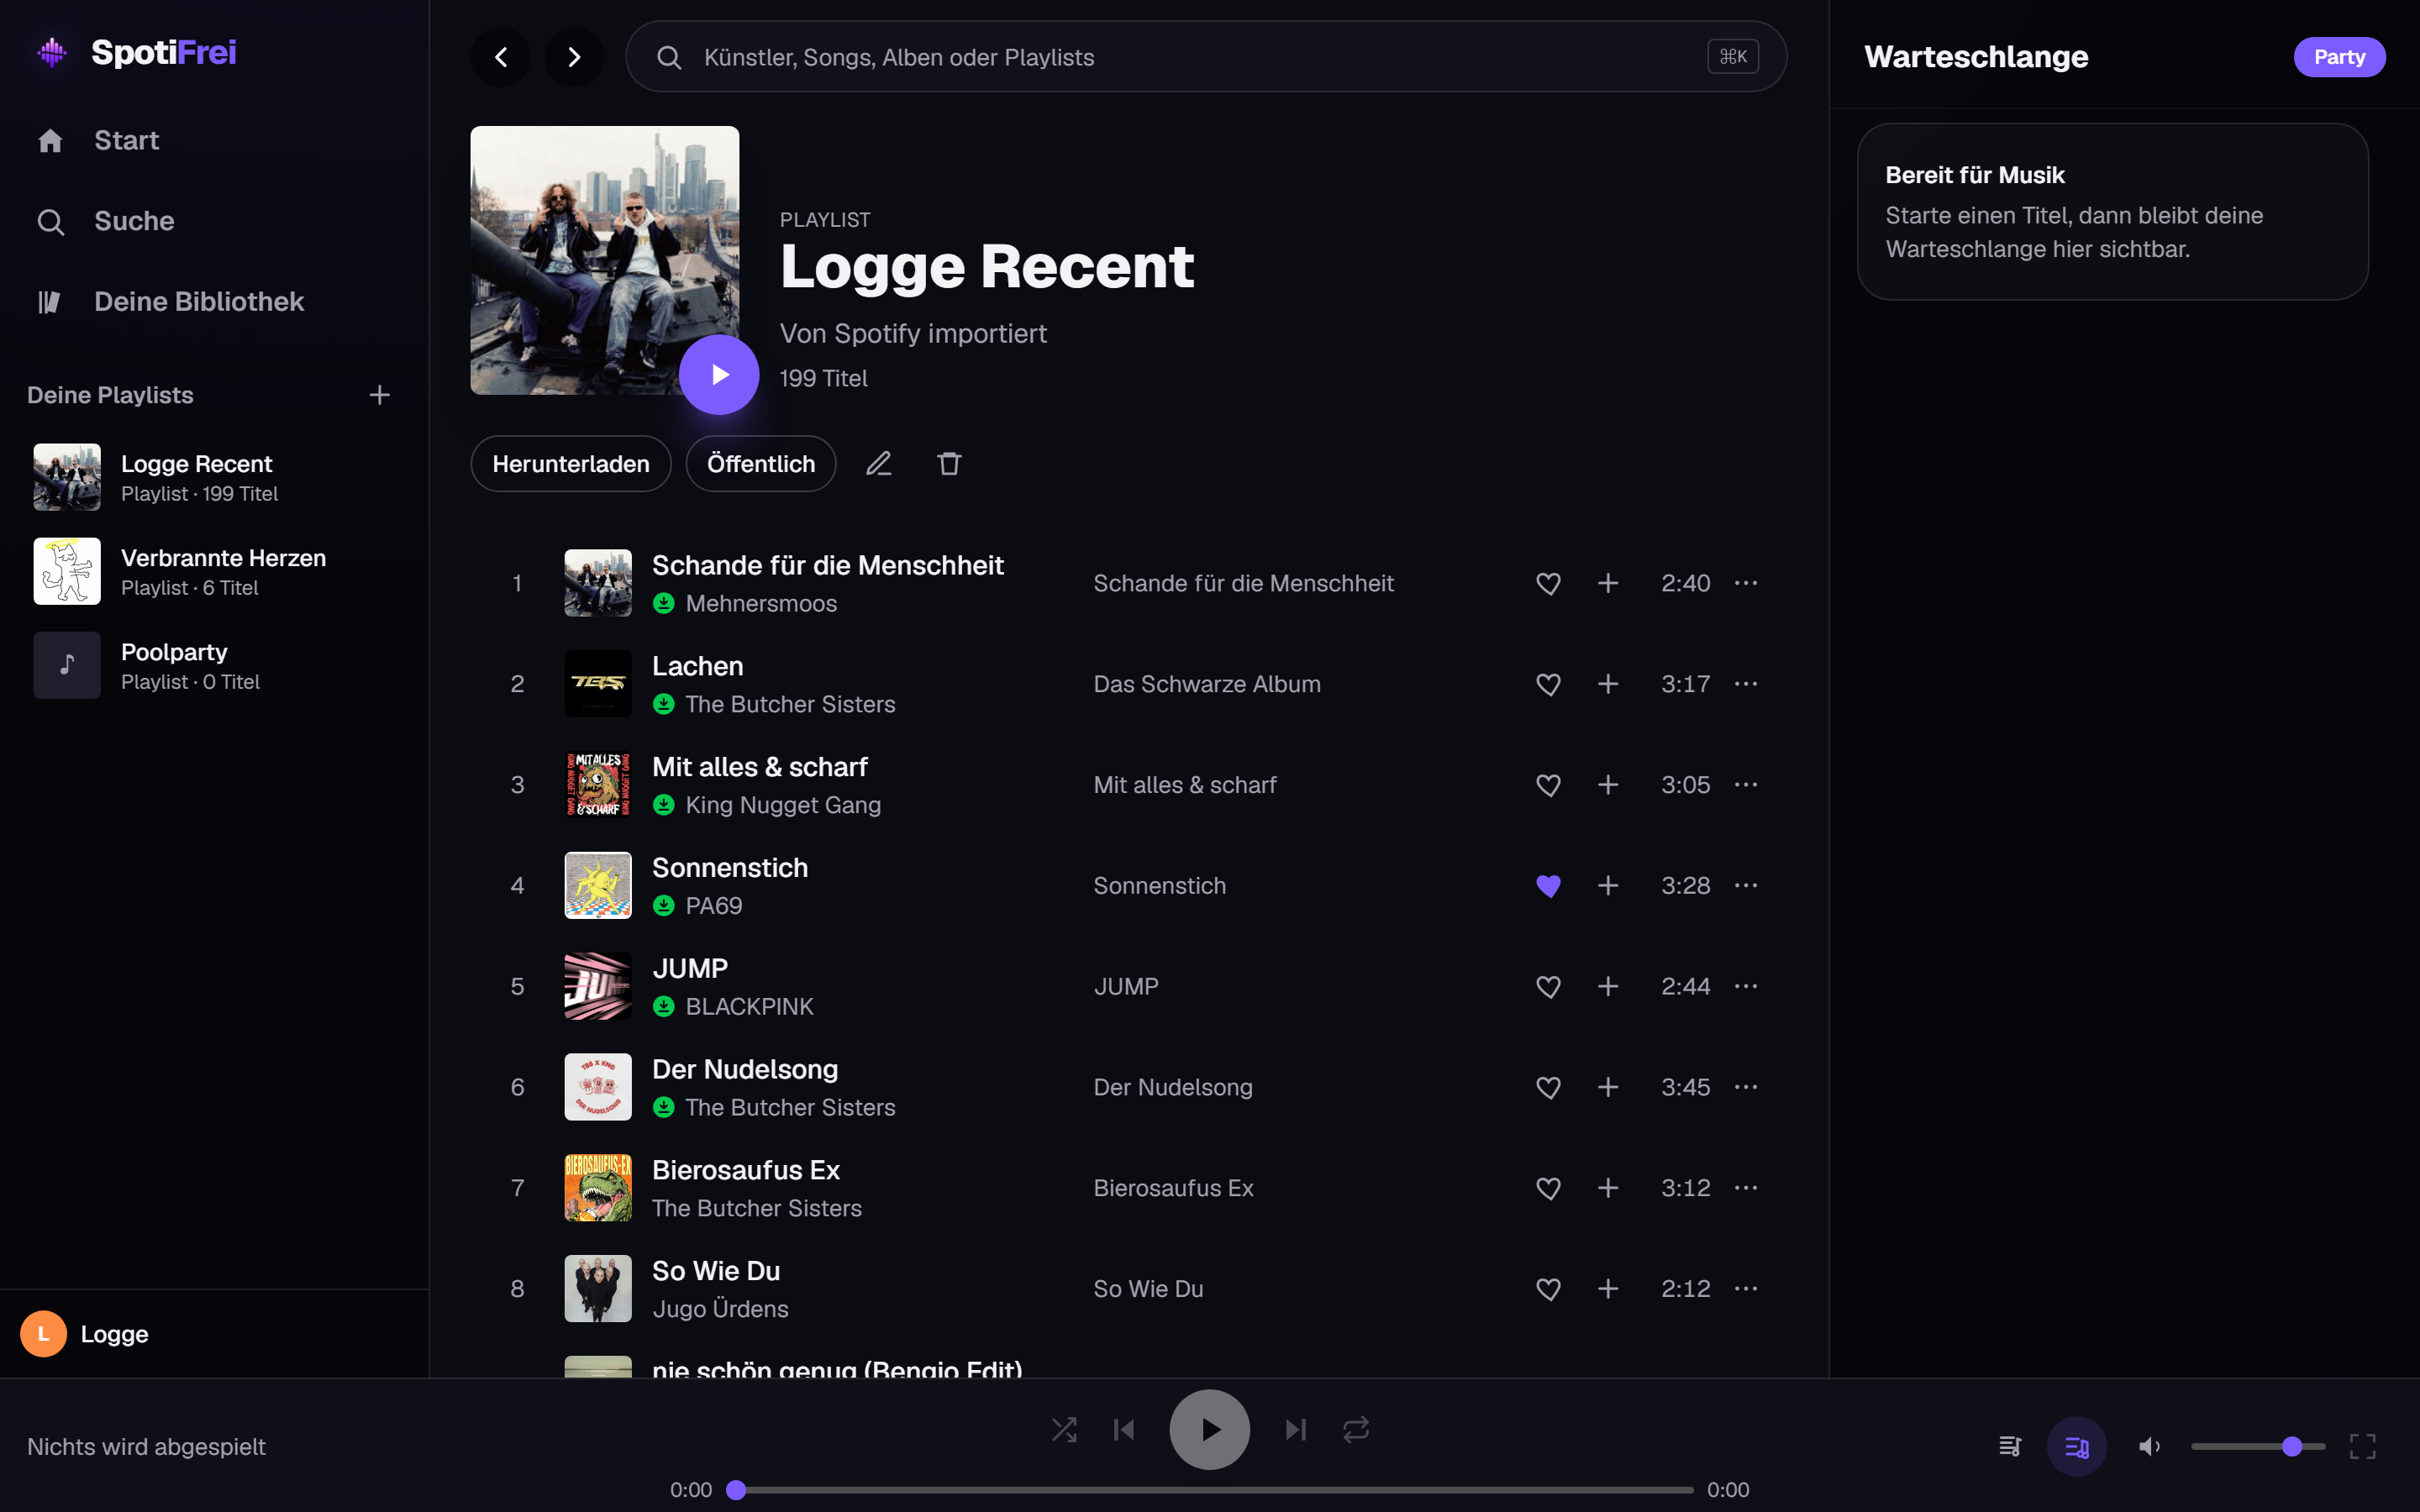
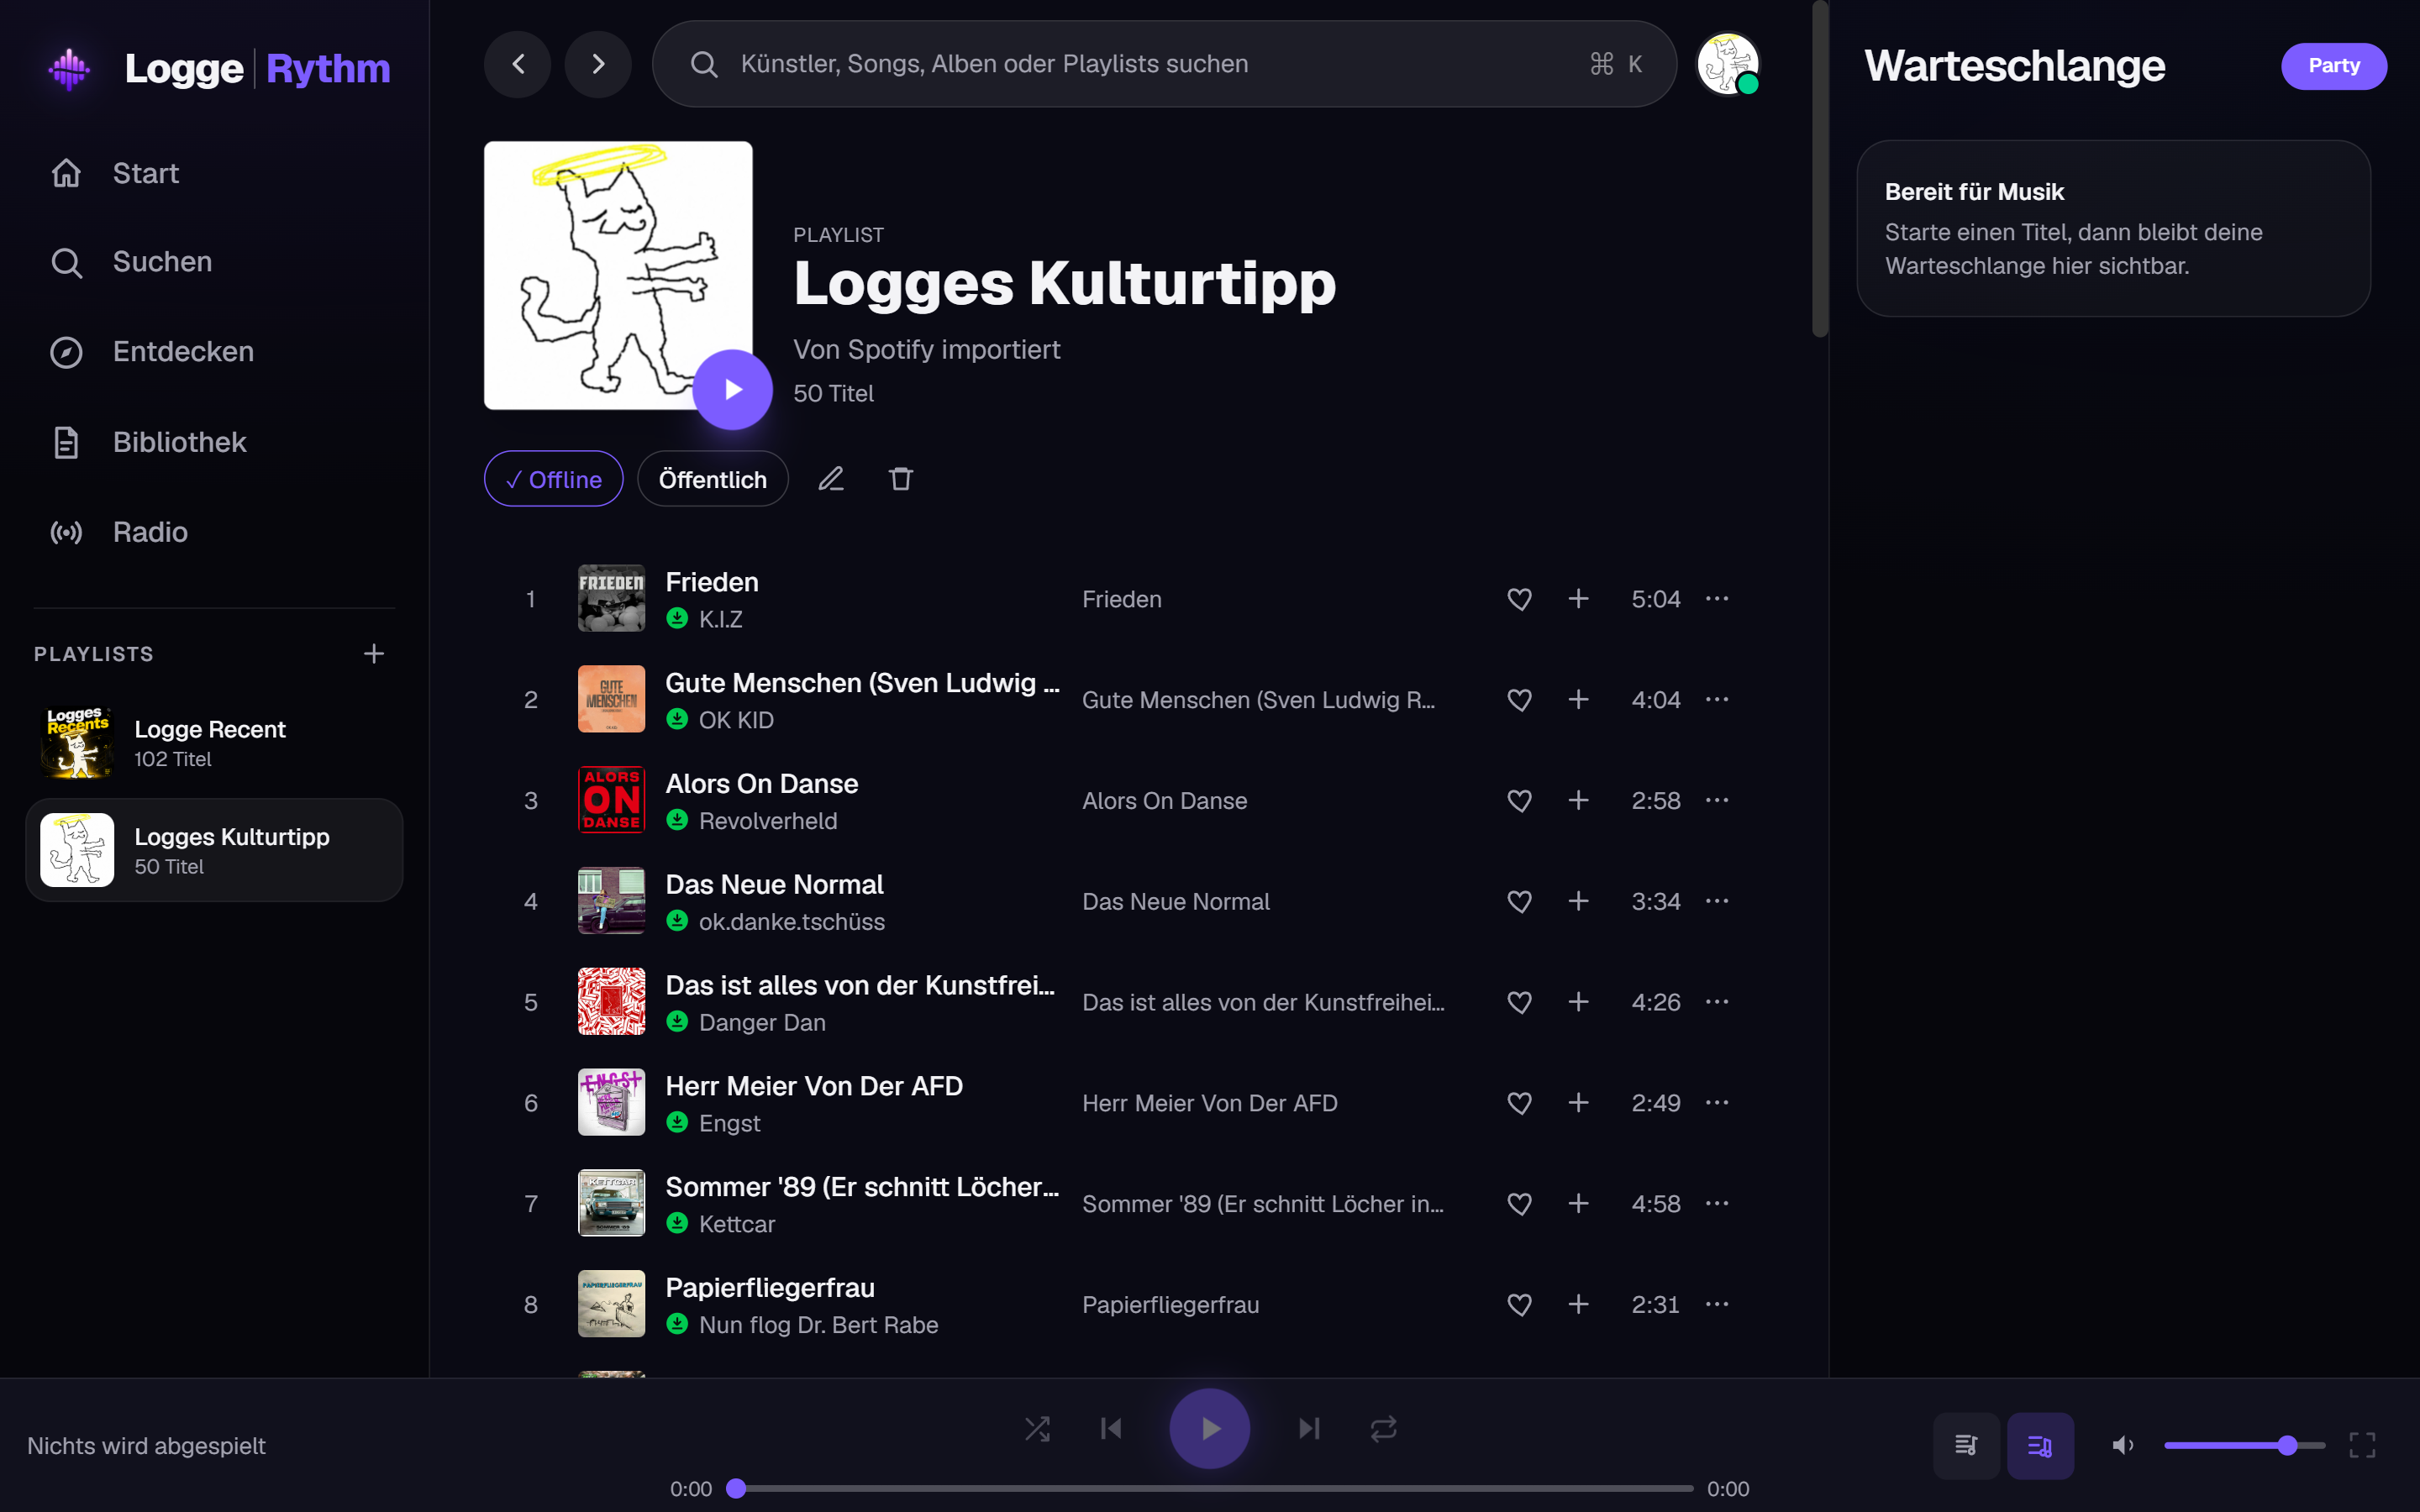
feat: beat-reactive visualizer boost + README screenshot capture script
Visualizer bars now add the frame-to-frame rise in energy on top of the
absolute level, so beats and snappy drums punch visibly harder. New
`npm run screenshots` (Playwright) regenerates the README screenshots
against a running instance; refreshed docs/screenshots.

diff --git a/web/src/components/Visualizer.tsx b/web/src/components/Visualizer.tsx
@@ -60,6 +60,12 @@ export default function Visualizer({
     const BARS = 64;
     // Smoothed bar heights (0..1) so transitions stay fluid frame to frame.
     const heights = new Float32Array(BARS);
+    // Previous frame's raw (unboosted) level per bar, so we can react to the
+    // frame-to-frame *rise* in energy — a fast beat spikes the delta even when
+    // the absolute level is modest, so bass hits and snappy drums pop harder.
+    const prev = new Float32Array(BARS);
+    // How strongly a rapid rise adds on top of the absolute level.
+    const BEAT_BOOST = 0.9;
     let freq: Uint8Array<ArrayBuffer> | null = null;
 
     let width = 0;
@@ -104,13 +110,20 @@ export default function Visualizer({
           // mapped logarithmically so bass doesn't dominate the whole row.
           const frac = i / BARS;
           const bin = Math.floor(Math.pow(frac, 1.35) * freq.length * 0.8);
-          target = freq[bin] / 255;
+          const raw = freq[bin] / 255;
+          // Add the positive change since last frame so fast attacks (beats)
+          // punch above their absolute level; steady tones aren't inflated.
+          const rise = raw - prev[i];
+          prev[i] = raw;
+          target = rise > 0 ? Math.min(1, raw + rise * BEAT_BOOST) : raw;
         } else if (reduced) {
           target = 0.06;
+          prev[i] = target;
         } else {
           // Gentle idle breathing wave.
           const phase = t * 0.04 + i * 0.35;
           target = 0.06 + 0.05 * (0.5 + 0.5 * Math.sin(phase));
+          prev[i] = target;
         }
         // Fast attack, slower release for a lively but smooth feel.
         const h = heights[i];
@@ -202,6 +215,11 @@ export function RadialVisualizer({
 
     const BARS = 112;
     const heights = new Float32Array(BARS);
+    // Previous frame's raw level per bar, to emphasise the frame-to-frame rise
+    // in energy so fast beats spike harder than their absolute level (see the
+    // linear Visualizer for the rationale).
+    const prev = new Float32Array(BARS);
+    const BEAT_BOOST = 0.9;
     let freq: Uint8Array<ArrayBuffer> | null = null;
     let width = 0;
     let height = 0;
@@ -237,12 +255,17 @@ export function RadialVisualizer({
         if (analyser && playing && freq) {
           const frac = i / BARS;
           const bin = Math.floor(Math.pow(frac, 1.25) * freq.length * 0.82);
-          target = freq[bin] / 255;
+          const raw = freq[bin] / 255;
+          const rise = raw - prev[i];
+          prev[i] = raw;
+          target = rise > 0 ? Math.min(1, raw + rise * BEAT_BOOST) : raw;
         } else if (reduced) {
           target = 0.08;
+          prev[i] = target;
         } else {
           const phase = t * 0.035 + i * 0.22;
           target = 0.08 + 0.055 * (0.5 + 0.5 * Math.sin(phase));
+          prev[i] = target;
         }
         const h = heights[i];
         heights[i] = target > h ? target * 0.58 + h * 0.42 : target * 0.18 + h * 0.82;

diff --git a/README.md b/README.md
@@ -1,6 +1,6 @@
-# SpotiFrei
+# LoggeRythm
 
-SpotiFrei is a self-hosted, private Spotify-style music app. It pairs a FastAPI backend with a Next.js frontend to deliver full-track playback, browsing, search, playlists, and social features in a polished web player. Audio is sourced from Deezer using an account ARL cookie and decrypted server-side, so it streams complete tracks rather than 30-second previews. **This is an explicitly private / demo project that lives in a legal grey area — it is not intended for public distribution or commercial use.**
+LoggeRythm is a self-hosted, private Spotify-style music app. It pairs a FastAPI backend with a Next.js frontend to deliver full-track playback, browsing, search, playlists, and social features in a polished web player. Audio is sourced from Deezer using an account ARL cookie and decrypted server-side, so it streams complete tracks rather than 30-second previews. **This is an explicitly private / demo project that lives in a legal grey area — it is not intended for public distribution or commercial use.**
 
 ## Screenshots
 
@@ -89,4 +89,4 @@ The **first user to register becomes the admin** and is automatically approved. 
 
 ## Legal / Disclaimer
 
-SpotiFrei is for **private, personal use only**. It streams audio via Deezer in a way that sits in a legal grey area with respect to Deezer's Terms of Service. Do not distribute it publicly, host it as a service, or use it commercially. You are responsible for ensuring your use complies with all applicable laws and the terms of any third-party services involved.
+LoggeRythm is for **private, personal use only**. It streams audio via Deezer in a way that sits in a legal grey area with respect to Deezer's Terms of Service. Do not distribute it publicly, host it as a service, or use it commercially. You are responsible for ensuring your use complies with all applicable laws and the terms of any third-party services involved.